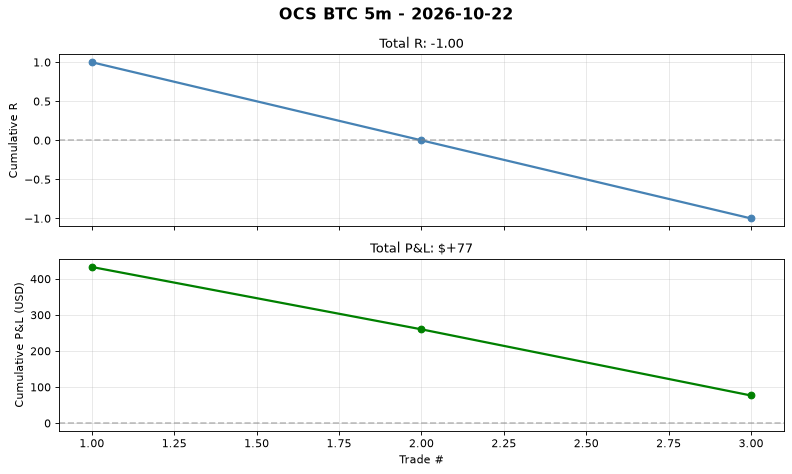
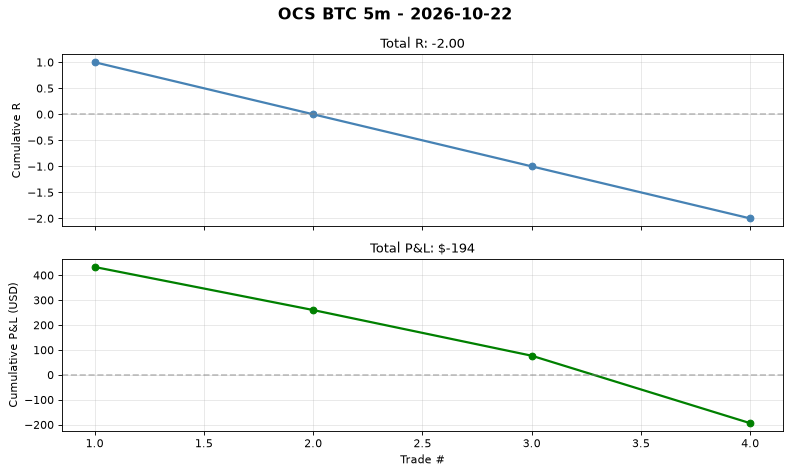
auto(ocs-btc): signal log 2026-10-22T04:48 trades=4

diff --git a/automation/reports/ocs_btc_5m/daily/2026-10-22.md b/automation/reports/ocs_btc_5m/daily/2026-10-22.md
@@ -2,4 +2,4 @@
 
 **No trades today.**
 
-Cumulative stats: 3 trades | WR 33.3% | avg R -0.333
+Cumulative stats: 4 trades | WR 25.0% | avg R -0.5
